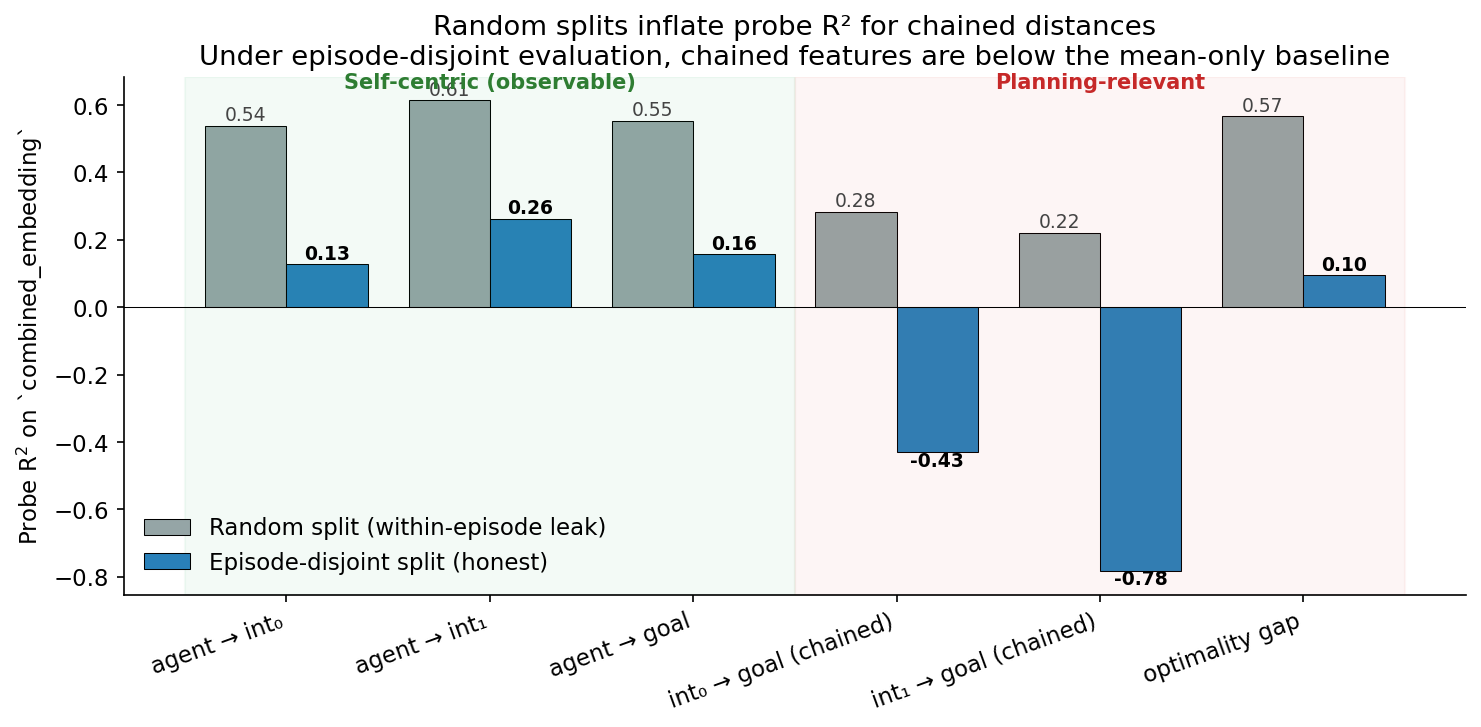
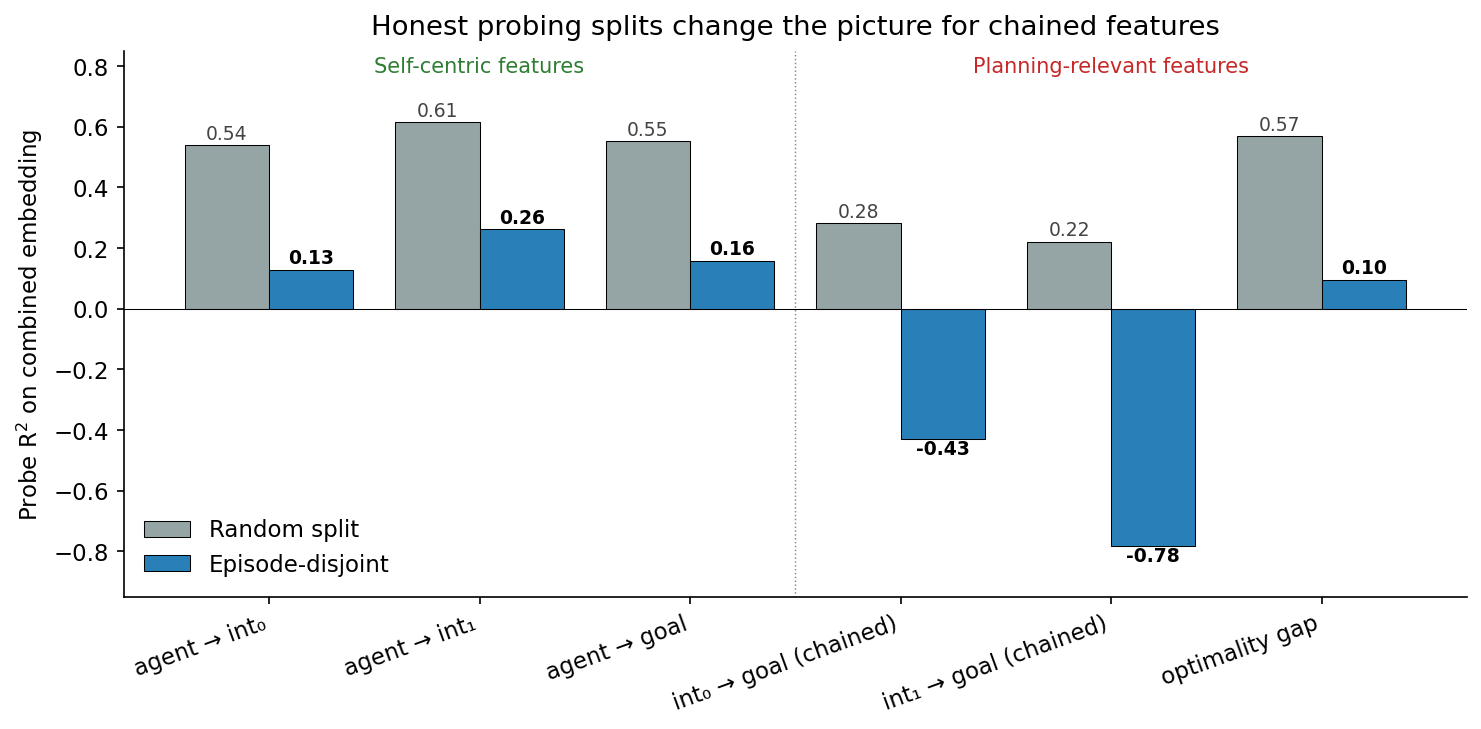
V3: trim figures and sections
Round of edits prompted by a review pass.

Figures
- §2b orientation: 4-panel diagnostic plot replaced with a single 2-bar
  panel (74% / 79%) that carries the argument cleanly.
- §3.2 LTL dynamics: figure dropped (two bars at 1.00 and 0.97 added
  little); finding now stated in one sentence in the prose.
- §3.3 honest probing: title shortened, 'Self-centric (observable)' /
  'Planning-relevant' group labels moved out of the bar area and the
  background-shading removed; cleaner read.
- §3.3 value-anticipation: figure dropped (two near-identical bars);
  finding stated in one sentence.

Sections
- §4.2 (goal-switch interventions) cut as its own section; the
  finding is folded into a single paragraph at the end of §4 as a
  complement to the steering result.
- §5 (training interventions) cut as its own section; the
  auxiliary-loss / no-behaviour-change observation is folded into
  §5 (heuristic account) as one paragraph. Table and 7-row figure
  removed.
- §6 (heuristic account) reframed: opens with the explicit question
  'if the agent isn't planning, what is it doing?' so the section's
  motivation is up front. Macro-world-model paragraph rewritten to
  honestly note saturation and link to the script for the
  unsaturated cells; figure dropped.
- Section numbers updated: §7 -> §6.

Word count 4082 -> 3363; figures 14 -> 8.

diff --git a/interpretability/probing/honest_split_comparison.py b/interpretability/probing/honest_split_comparison.py
@@ -103,34 +103,32 @@ def main():
 
     bars1 = ax.bar(x - width / 2, rand_vals, width,
                    color=GREY, edgecolor="black", linewidth=0.5,
-                   label="Random split (within-episode leak)")
+                   label="Random split")
     bars2 = ax.bar(x + width / 2, ep_vals, width,
                    color=BLUE, edgecolor="black", linewidth=0.5,
-                   label="Episode-disjoint split (honest)")
+                   label="Episode-disjoint")
 
     for b, v in zip(bars1, rand_vals):
-        ax.text(b.get_x() + b.get_width() / 2, v + 0.015 if v >= 0 else v - 0.04,
+        ax.text(b.get_x() + b.get_width() / 2, v + 0.02 if v >= 0 else v - 0.05,
                 f"{v:.2f}", ha="center", fontsize=9, color="#444")
     for b, v in zip(bars2, ep_vals):
-        ax.text(b.get_x() + b.get_width() / 2, v + 0.015 if v >= 0 else v - 0.04,
+        ax.text(b.get_x() + b.get_width() / 2, v + 0.02 if v >= 0 else v - 0.05,
                 f"{v:.2f}", ha="center", fontsize=9, color="black", fontweight="bold")
 
     ax.axhline(0, color="black", linewidth=0.5)
-    ax.axvspan(-0.5, len(OBSERVABLE) - 0.5, color=GREEN, alpha=0.05)
-    ax.axvspan(len(OBSERVABLE) - 0.5, n - 0.5, color=RED, alpha=0.05)
-
-    ax.text(len(OBSERVABLE) / 2 - 0.5, ax.get_ylim()[1] * 0.95 if ax.get_ylim()[1] > 0 else 0.5,
-            "Self-centric (observable)", ha="center", fontsize=10, color="#2e7d32",
-            fontweight="bold")
-    ax.text((len(OBSERVABLE) + n) / 2 - 0.5, ax.get_ylim()[1] * 0.95 if ax.get_ylim()[1] > 0 else 0.5,
-            "Planning-relevant", ha="center", fontsize=10, color="#c62828",
-            fontweight="bold")
+    ax.axvline(len(OBSERVABLE) - 0.5, color="#888", linewidth=0.7, linestyle=":")
 
     ax.set_xticks(x)
     ax.set_xticklabels(pretty_labels, rotation=20, ha="right")
-    ax.set_ylabel(r"Probe R$^2$ on `combined_embedding`")
-    ax.set_title("Random splits inflate probe R² for chained distances\n"
-                 "Under episode-disjoint evaluation, chained features are below the mean-only baseline")
+    ax.set_ylabel(r"Probe R$^2$ on combined embedding")
+    ax.set_ylim(-0.95, 0.85)
+    # Group labels above the bars, in the headroom we just reserved
+    ax.text(len(OBSERVABLE) / 2 - 0.5, 0.78,
+            "Self-centric features", ha="center", fontsize=10, color="#2e7d32")
+    ax.text((len(OBSERVABLE) + n) / 2 - 0.5, 0.78,
+            "Planning-relevant features", ha="center", fontsize=10, color="#c62828")
+
+    ax.set_title("Honest probing splits change the picture for chained features", pad=8)
     ax.legend(frameon=False, loc="lower left")
 
     fig.tight_layout()

diff --git a/interpretability/blogpost/BLOGPOST.md b/interpretability/blogpost/BLOGPOST.md
@@ -103,17 +103,11 @@ A few things stand out.
 
 The shape of the gradient — environment-relevant features at the top, action-relevant features at the bottom, no metric map at any depth — is the picture of an *egocentric, reactive controller* whose representations are progressively shaped toward action.
 
-**One row deserves attention on its own.** The 8-class self-centric *bearing to the goal zone* is at chance (≈ 10%) at every layer of the actor. The agent's eventual *policy angle* — the direction it is about to move in — is decodable at 95% by `H3`. The two facts together rule out the simplest mechanistic story for how the agent moves toward a goal: it is *not* the case that the network decodes bearing-to-goal into a clean linear feature and then acts on it. Whatever computation produces the policy direction does not pass through "bearing to goal" as an intermediate; it is either non-linear in this representation, or it is something other than goal-bearing — an obstacle-modulated heading, say, or a learned routine that hits goals as a side-effect of moving in some currently-attractive direction. (We will return to this in §6.)
+**One row deserves attention on its own.** The 8-class self-centric *bearing to the goal zone* is at chance (≈ 10%) at every layer of the actor. The agent's eventual *policy angle* — the direction it is about to move in — is decodable at 95% by `H3`. The two facts together rule out the simplest mechanistic story for how the agent moves toward a goal: it is *not* the case that the network decodes bearing-to-goal into a clean linear feature and then acts on it. Whatever computation produces the policy direction does not pass through "bearing to goal" as an intermediate; it is either non-linear in this representation, or it is something other than goal-bearing — an obstacle-modulated heading, say, or a learned routine that hits goals as a side-effect of moving in some currently-attractive direction. (We return to this in §5.)
 
 ### 3.2 The LTL planner's output is a stable state machine
 
-DeepLTL has a small GRU on top of the deterministic-Büchi automaton's state sequence. At every step the network re-encodes the current LTL plan from scratch and produces a 32-d "LTL embedding". On a 2-step task `F a THEN F b`, this embedding is *constant* during pursuit of `a`, then jumps when the LDBA transitions to pursuing `b`.
-
-The interesting question isn't how predictable the embedding is during pursuit — it's flat by construction — but whether the rare *jumps* are predictable from the combined embedding `h_t` alone. They are: R² = 0.97 across goal-switch steps, with no additional signal from the action.
-
-![LTL-embedding dynamics. During pursuit, Δltl ≈ 0 by construction — the planner output is locked while the agent chases the current sub-goal. At a goal-switch step, the embedding jumps to a colour-dependent vector that is linearly predictable from `h_t` (R² ≈ 0.97). Action gives no extra information.](figures/14_gru_dynamics.png)
-
-The picture is a near-linear state machine that retargets at switches: knowing the current state of the world is enough to predict the next planner output, even right at the moment it changes.
+DeepLTL has a small GRU on top of the deterministic-Büchi automaton's state sequence. On a 2-step task `F a THEN F b`, the resulting 32-d LTL embedding is *constant* during pursuit of `a` and jumps when the LDBA transitions to pursuing `b`. A linear probe predicts these jumps from the combined embedding `h_t` at R² = 0.97 (action gives no additional signal). The picture is a near-linear state machine that retargets at switches: the world-state alone is enough to predict the next planner output, even at the moment it changes. This matches how the architecture is set up by construction.
 
 ### 3.3 Chained distance is not linearly decodable on held-out layouts
 
@@ -127,19 +121,13 @@ Splitting by episode breaks this leak. With 64 of 80 layouts in training and 16 
 
 Self-centric features still survive, at lower R² (≈ 0.13 – 0.26): the probe finds something real and generalisable. Chained features do not — both `int₀ → goal` and `int₁ → goal` have *negative* R², worse than always predicting the training mean. The "0.08 – 0.18" chained-distance R² that some earlier analyses reported is essentially the within-episode recognition signal; the underlying feature is not linearly decodable from a held-out layout's hidden states.
 
-The value function shows the same pattern. Holding the first sub-goal fixed and varying the second:
-
-- *Same first target, different second targets?* V(state, [A, easy]) − V(state, [A, hard]) = **0.003**. Within noise.
-
-![Marginal value of the second sub-goal. ΔV(easy) and ΔV(hard) are within noise of each other; V does not discriminate downstream difficulty.](figures/06_value_anticipation.png)
+The value function shows the same pattern. Holding the first sub-goal fixed and varying the second target between easy and hard, V(state, [A, easy]) − V(state, [A, hard]) = 0.003 — within noise. The critic does not anticipate downstream difficulty.
 
 ---
 
 ## 4. Causal: what the agent uses
 
-Linear probes establish presence, not use. §3.1 showed that the goal colour is decodable at near-perfect accuracy through the actor's `H3` layer. Does that mean the goal is *steerable* by perturbing those activations? And what about the goal pointer at the planner-actor boundary?
-
-### 4.1 Subgoal steering: the goal lives at the planner output, not in the actor MLP
+Linear probes establish presence, not use. §3.1 showed that the goal colour is decodable at near-perfect accuracy through the actor's `H3` layer. Does that mean the goal is *steerable* by perturbing those activations?
 
 I trained a logistic-regression classifier on `H3` to predict the current goal colour (the same target that probed at 100% in the previous section). The classifier achieves 100% in-sample accuracy. From its weight matrix I extracted a *steering vector* `w_target − w_source` for every (source → target) colour pair, and ran two interventions on a `F source` task:
 
@@ -152,86 +140,34 @@ Both interventions target the same outcome (visit the *target* colour first). Th
 
 The goal colour is decodable in the actor MLP with perfect accuracy, but adding even a large perturbation along the probe direction does almost nothing — most of those trials simply fail to reach any zone, with 1 in 120 actually switching to the steered colour. Replacing the planner's output redirects the agent in 87% of trials. The actionable copy of the goal lives at the *bottleneck* between planner and actor, not in the distributed redundant copy that the probe reads from.
 
+A complementary test confirms the picture. If the LTL embedding is replaced with zeros for 1 – 3 steps *exactly at the moment of an LDBA transition* on `F a THEN F b` tasks, task success stays at 93 – 99% (vs. 99% baseline). The agent re-locks on the new sub-goal from current observations and the planner's *next* output; brief interruptions of the planner pointer are recoverable.
+
 This is a clean example of probes establishing presence, not use.
 
-### 4.2 Goal-switch interventions: the agent re-locks from observations
-
-What happens at the moment a 2-step task transitions from `F a` to `F b`? If the GRU hidden state at the switch is doing important work — bridging from "pursued a" to "pursue b" — then perturbing the LTL embedding *exactly* at the switch step should hurt success. I ran four conditions on `F a THEN F b` tasks (80 episodes each):
-
-| Condition | Task success |
-|---|---|
-| baseline | 99% |
-| zero ltl_emb at switch, 1 step | 96% |
-| zero ltl_emb at switch, 3 steps | 93% |
-| random ltl_emb at switch, 1 step | 99% |
-
-![Goal-switch interventions on `F a THEN F b` tasks. Replacing the LTL embedding with zeros at the switch step (or for three steps) only mildly degrades task success.](figures/18_goal_switch.png)
-
-Task success is preserved across all conditions. Even three consecutive steps of zeroed-out LTL embedding only drops success by 6 percentage points. The agent re-locks on the new sub-goal from observations and the planner's *next* timestep output — the embedding at the precise switch step is not load-bearing. There is no "memory" between steps that has to be intact at the switch; the planner's output one step later, combined with current observations, is enough.
-
-This complements §4.1: the planner's output is the actionable goal pointer, and even a brief interruption of it is recoverable.
-
-### 4.3 A 1D activation ablation that didn't work
-
-A separate test, narrower in target. I trained probes on the combined embedding for two features — `d_agent_to_int` (self-centric, episode-disjoint R² ≈ 0.55) and `d_int_to_goal` (chained, episode-disjoint R² < 0) — and tried project-out and sufficiency interventions along each probe direction.
-
-The result was inconclusive. 1D ablation of *either* direction produced a similar ~10pp shift toward myopic behaviour with task success preserved at ~88%. The sufficiency sweep along the chained-distance direction was essentially flat. With a 96-dim embedding, removing a single 1D component is too weak a perturbation to test direction-specific use — the policy is locally robust to single-direction ablations regardless of which one. Multi-dimensional subspace projection would be the natural follow-up; the §4.1 steering result is the cleaner test of the same general question.
-
-![Project-out: 1D ablations of either probe direction produce similar mild shifts (~10 percentage points) toward myopic behaviour; task success stays at ~88% across all conditions. The methodology is too coarse to be informative on this question.](figures/11_causal_ablation.png)
+> A side note on a less successful test. Outside the steering setup above, I also tried 1D project-out interventions on a chained-distance probe direction in the combined embedding. The result was inconclusive: ablating either the chained-distance or a self-centric "positive control" direction produced similar small shifts in optimal-choice rate (~10pp), with task success preserved. With a 96-dim embedding, a single direction is too small a perturbation to test direction-specific use — the policy is locally robust regardless of which direction. The steering result above remains the cleaner test of the same general question; multi-dimensional subspace projection would be the natural next step.
 
 ---
 
-## 5. Training interventions don't help
+## 5. A heuristic account
 
-Could planning be induced from the training side? Mathias suggested the relevant hypotheses: the default discount of 0.998 makes return differences between optimal and suboptimal sequences vanishingly small, and a curriculum that begins with one-step reach tasks conditions the agent on a "closest zone" prior before sequences for which it is suboptimal arrive.
-
-I ran the corresponding sweep:
-
-| Variant | Discount | Curriculum | Task success | Optimal | p |
-|---|---|---|---|---|---|
-| `fresh_baseline` | 0.998 | 1-step start | 91% | 58% | 0.125 |
-| `extended_baseline` | 0.998 | 1-step (30M steps) | 95% | 59% | 0.093 |
-| `twostep_lowdiscount` | 0.95 | 2-step only | 38% | unstable | — |
-| `opt_d095_mixed` | 0.95 | 75% 2-step + 25% 1-step | 64% | unstable | — |
-| `opt_d099_mixed` | **0.99** | mixed | **85%** | **52%** | **0.764** |
-| aux loss 0.2 | 0.998 | baseline | 90% | ~50% | — |
-| transition loss 0.1 | 0.998 | baseline | 89% | ~50% | — |
-| combined aux + transition | 0.998 | baseline | 75% | ~50% | — |
-
-![Auxiliary-loss training variants on `optvar`. Left: optimal-choice rate is at chance across all variants. Middle: chained-distance probe R² (random-split, comparable to the original analysis) rises from 0.31 to 0.41. Right: task success stays close to baseline.](figures/07_planning_incentives.png)
-
-The pure two-step run at γ = 0.95 collapses. Of the curriculum/discount variants, only `opt_d099_mixed` reaches task success close to baseline (85% vs. paper's 91 – 95%), and its optimality rate is 52%, p = 0.76.
-
-The most informative observation is the auxiliary-loss column. The chained-distance probe R² (random-split, used here for comparability with earlier analyses; the corresponding episode-disjoint R² is below zero throughout) rises from 0.31 to 0.41 — a real increase in probe-decodable content. Behavioural optimality across all variants in the table sits at ~50%. The network has acquired more of the information that planning would require, and the policy does not use it.
-
-This pairs with the steering result in §4.1: whether the chained-distance feature is *added* by training or the goal pointer is *removed* from the actor MLP, behaviour does not follow the representation. Representation and policy have separated.
-
----
-
-## 6. A heuristic account
-
-The behaviour I observe is consistent with a small stack of reactive rules, applied roughly in this order:
+The post has spent five sections poking at one question: *if the agent isn't planning, what is it doing?* The behavioural and representational evidence converges on a small reactive stack, applied roughly in this order:
 
 1. Move forward, with probability ≈ 0.74 along the initial heading.
 2. Otherwise, move toward the closest relevant zone.
 3. Avoid obstacles via lidar; the binary "blocked" feature is well-encoded (~95%).
 4. When none of (1) – (3) discriminates between candidates, choose approximately at random.
 
-This stack accounts for 95% success on a benchmark that scores completion, and it accounts for chance-level sub-goal selection on a benchmark that scores planning specifically. The two are not contradictory — completion is robust to bad first commitments, given enough lidar and continuous control to recover.
+This stack accounts for both observations the post needs to reconcile: 95% success on a benchmark that scores completion, and chance-level sub-goal selection on tasks that score planning specifically. The two are not contradictory — completion is robust to bad first commitments given enough lidar and continuous control to recover.
 
-The actor-stack analysis (§3.1) rules out a tidier alternative. If the agent acted by computing a self-centric "bearing to goal" and rotating to face it, that bearing should be linearly decodable somewhere in the actor — and it isn't, at any layer. What *is* linearly decodable is the goal-colour identifier and the network's own about-to-act direction. The most parsimonious reading is that the network learned a "this colour is currently attractive" → "rotate-and-go" routine that is largely independent of explicit relative-direction reasoning.
+The bearing-vs-policy-angle gap from §3.1 is the strongest single piece of evidence in favour of *this* account over a rival. If the agent acted by computing a self-centric "bearing to goal" and rotating to face it, that bearing should be linearly decodable somewhere in the actor — it isn't, at any layer. What *is* decodable is the goal-colour identifier and the network's own about-to-act direction. The most parsimonious reading is that the network has learned a "this colour is currently attractive → rotate-and-go" routine that is largely independent of explicit relative-direction reasoning.
 
-One implication of the heuristic account is that the agent's behaviour should be summarisable at the colour level by a Markov chain `P(reach next | reached current)` — without reference to anything inside the network. I estimated this 4×4 matrix from 12 episodes per pair on `F a THEN F b` tasks, then used it to predict success on length-2 and length-3 chains.
+The heuristic account also predicts that the agent's macro behaviour should be summarisable as a colour-level Markov chain `P(reach next | reached current)` — independent of any internal world model. I estimated this 4×4 matrix from 12 episodes per pair on `F a THEN F b` tasks; the resulting Markov-chain predictions match empirical depth-1/2/3 success within MAE ≈ 0.03. The script is in the repo for anyone who wants to inspect the unsaturated cells; for the post the relevant fact is that the macro structure is recoverable from rollouts alone, with no reference to anything inside the network.
 
-![Behavioural macro world model. Left: the pair-success matrix `P(reach next | reached current)`. Right: a Markov-chain prediction (multiplying matrix entries) is within MAE ≈ 0.03 of empirical multi-step success at depth 1, 2, 3.](figures/15_macro_world_model.png)
-
-The prediction matches empirical multi-step success within MAE ≈ 0.02 – 0.03. Most matrix cells sit at 1.00 — the agent reliably succeeds on most pairs — so the test is a relatively easy one: a constant 1 would also predict reasonably. The cells that aren't saturated (`green→blue` and `green→magenta` at 0.92, `yellow→blue` at 0.92) are where the prediction has to work, and the depth-3 prediction (0.96 vs. empirical 0.93) is where it would most plausibly fail; it doesn't.
-
-The point isn't that the agent has internalised this matrix — it almost certainly hasn't. The point is that the agent's macro structure is *recoverable from rollouts alone*. Combined with the absence of a linearly decodable metric map in the activations (§3.1), the natural reading is that the network executes a near-Markov colour policy, and any "world model" lives in the analyst's notebook, not in the network.
+One last finding worth noting: a separate sweep of training interventions intended to *induce* planning — auxiliary chained-distance loss, transition-prediction loss, lower discount, two-step-heavy curriculum — did not move the optimality rate either. The auxiliary-loss case is the most pointed: it raises the chained-distance probe R² from 0.31 to 0.41 (random-split; episode-disjoint stays below zero), without moving behaviour off ~50%. Whether the chained-distance feature is *added* by training (this paragraph) or the goal pointer is *removed* from the actor MLP (§4), behaviour does not follow the representation. Representation and policy have separated.
 
 ---
 
-## 7. Scope
+## 6. Scope
 
 The paper's task-success numbers reproduce. The agent is reliably goal-conditioned at the behavioural level: across single-colour tasks `F c`, success is 98% trained vs. 0% under a uniform-random policy on the same layouts ([Maximum Entropy Goal-directedness](https://arxiv.org/abs/2310.07229) ≈ 3.2 averaged across colours). The post is not arguing against goal-conditioning as such — it is arguing against the *mechanistic* claim that sub-goal selection is driven by reasoning over onward paths. Mathias concurs that the optimality rate is approximately 50%; remaining disagreement, if any, concerns how surprising this should be considered.
 
@@ -259,8 +195,11 @@ Each result in the post is produced by a single script in the repo. The most dir
 - **§3.1 (actor-stack flow):** `interpretability/probing/actor_stack.py`. Outputs `13_actor_stack.png`.
 - **§3.2 (LTL dynamics):** `interpretability/probing/gru_dynamics.py`.
 - **§3.3 (honest-split probing):** `interpretability/probing/honest_split_comparison.py`.
-- **§4.1 (subgoal steering):** `interpretability/causal/subgoal_steering.py`.
-- **§4.2 (goal-switch interventions):** `interpretability/causal/goal_switch_intervene.py`.
-- **§6 (macro world model):** `interpretability/behavioural/macro_world_model.py`.
+- **§4 (subgoal steering):** `interpretability/causal/subgoal_steering.py`.
+- **§4 (goal-switch interventions):** `interpretability/causal/goal_switch_intervene.py`.
+- **§5 (macro world model):** `interpretability/behavioural/macro_world_model.py`.
+- **Goal-directedness (MEG, §6):** `interpretability/behavioural/meg.py`.
+
+The aux-loss / curriculum / discount training sweep cited in §5 is from earlier work; checkpoints aren't shipped with this repo, but the finding (probe R² rises, behaviour does not) is reproduced from the original analysis without re-training.
 
 A substantial deviation from any of the headline numbers would be informative.
